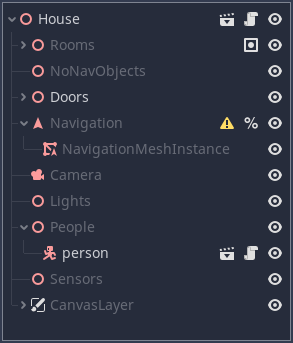
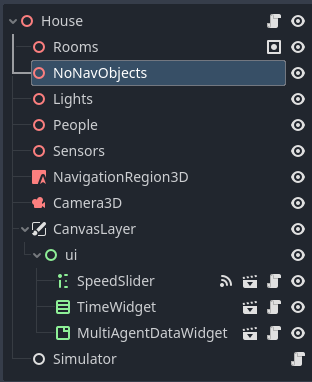
Tutorial development started

diff --git a/docs/tutorial.md b/docs/tutorial.md
@@ -1,0 +1,28 @@
+# Tutorial
+
+Before starting the tutorial, my first advise is to get acquainted with Godot editor in general and with 3D editor in particular.
+
+## Setting up the environment
+
+It is recomended to start setting up the simulation starting from the representation of the physical environment, and, after that, to continue setting up the agents and final details.
+
+### Understanding the node structure
+The image below shows the basic node structure for an environment. It can be simplified by a lot, but the included nodes help for managing the elements needed in the simulator.
+
+![Environment](figures/environment_template.png)
+
+Next, each node will be explained:
+
+* **Organization nodes**. The nodes **Rooms**, **NoNavObjects**, **Lights**, **People**, and **Sensors** are only included for containing other nodes in an organized way. The kind of nodes that should be children of these ones, will be explored in deep later.
+* **NavigationRegion3D**. This node is used for defining the area on which the Agents can move. Later, it will be show how to use it, but you can find more information in the [Godot docs](https://docs.godotengine.org/en/stable/tutorials/navigation/navigation_introduction_3d.html).
+* **Camera3D**. This camera is the default one that will be used for the simulation. You can change its position wherever you need or any other of their properties. The Agents will also have their own cameras that can be swapped during the simulation.
+* **GUI nodes**. Under **CanvasLayer/ui** there are 3 GUI related nodes:
+  * The **SpeedSlider** is used for increasing the speed of the simulation, which can reduce the accuracy.
+  * The **TimeWidget** shows the date and time of the simulation.
+  * The **MultiAgentDataWidget** shows information related with the behaviour of the Agent. It is particulary useful for debug purposes.
+* **Simulator**. This is one of the most important nodes for the simulation. It manages the internal variables of the simulation and syncronizes every Simulable object.
+  
+### Building the house structure
+
+The ideal way to start building the house is starting from its floor and walls, and for helping in that purpose we are using a reference [blueprint](http://4.bp.blogspot.com/--odh3hnCIr0/UjfM3k2v6hI/AAAAAAAAowg/GKUlVsCy6vs/s1600/casa+1+quarto+5.jpg).
+
